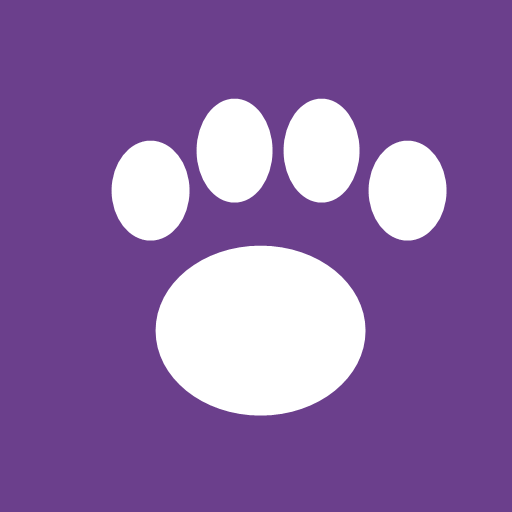
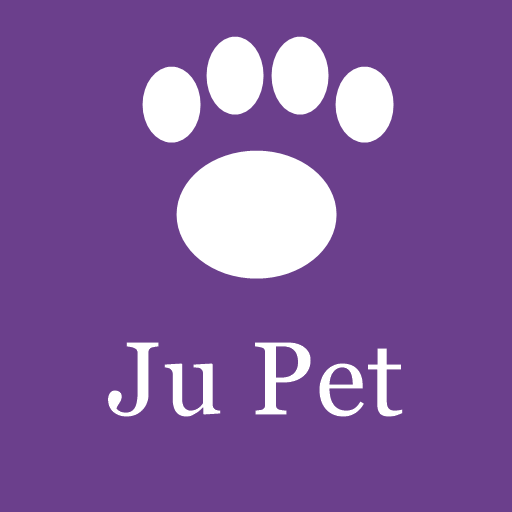
deploy: 2026-07-19 15:47

Changed region(s): [[0.1875, 0.0625, 0.875, 0.8125]]

diff --git a/sw.js b/sw.js
@@ -11,7 +11,7 @@
 // Isso e o que faz o navegador perceber que ha versao nova: se o sw.js nao muda
 // nenhum byte, o browser nem verifica, e a Ju fica presa no app antigo para sempre.
 // NAO editar a mao: o deploy cuida disso.
-const VERSAO = '2026-07-19-153818';
+const VERSAO = '2026-07-19-154754';
 const CACHE = 'jupet-' + VERSAO;
 const ARQUIVOS = [
   './',
@@ -20,6 +20,7 @@ const ARQUIVOS = [
   './manifest.json',
   './icon-192.png',
   './icon-512.png',
+  './icon-maskable.png',
   './apple-touch-icon.png'
 ];
 

diff --git a/index.html b/index.html
@@ -267,7 +267,7 @@ body{font-family:'DM Sans',system-ui,sans-serif;background:var(--fundo);color:va
 <!-- TOPBAR -->
 <div class="topbar">
   <div class="topbar-brand">
-    <div class="topbar-logo">🐾</div>
+    <div class="topbar-logo"><img src="./icon-192.png" alt="Ju Pet" style="width:100%;height:100%;object-fit:cover;border-radius:10px;"></div>
     <div>
       <div class="topbar-name">Ju Pet</div>
       <div class="topbar-sub">Banho &amp; Tosa Premium</div>
